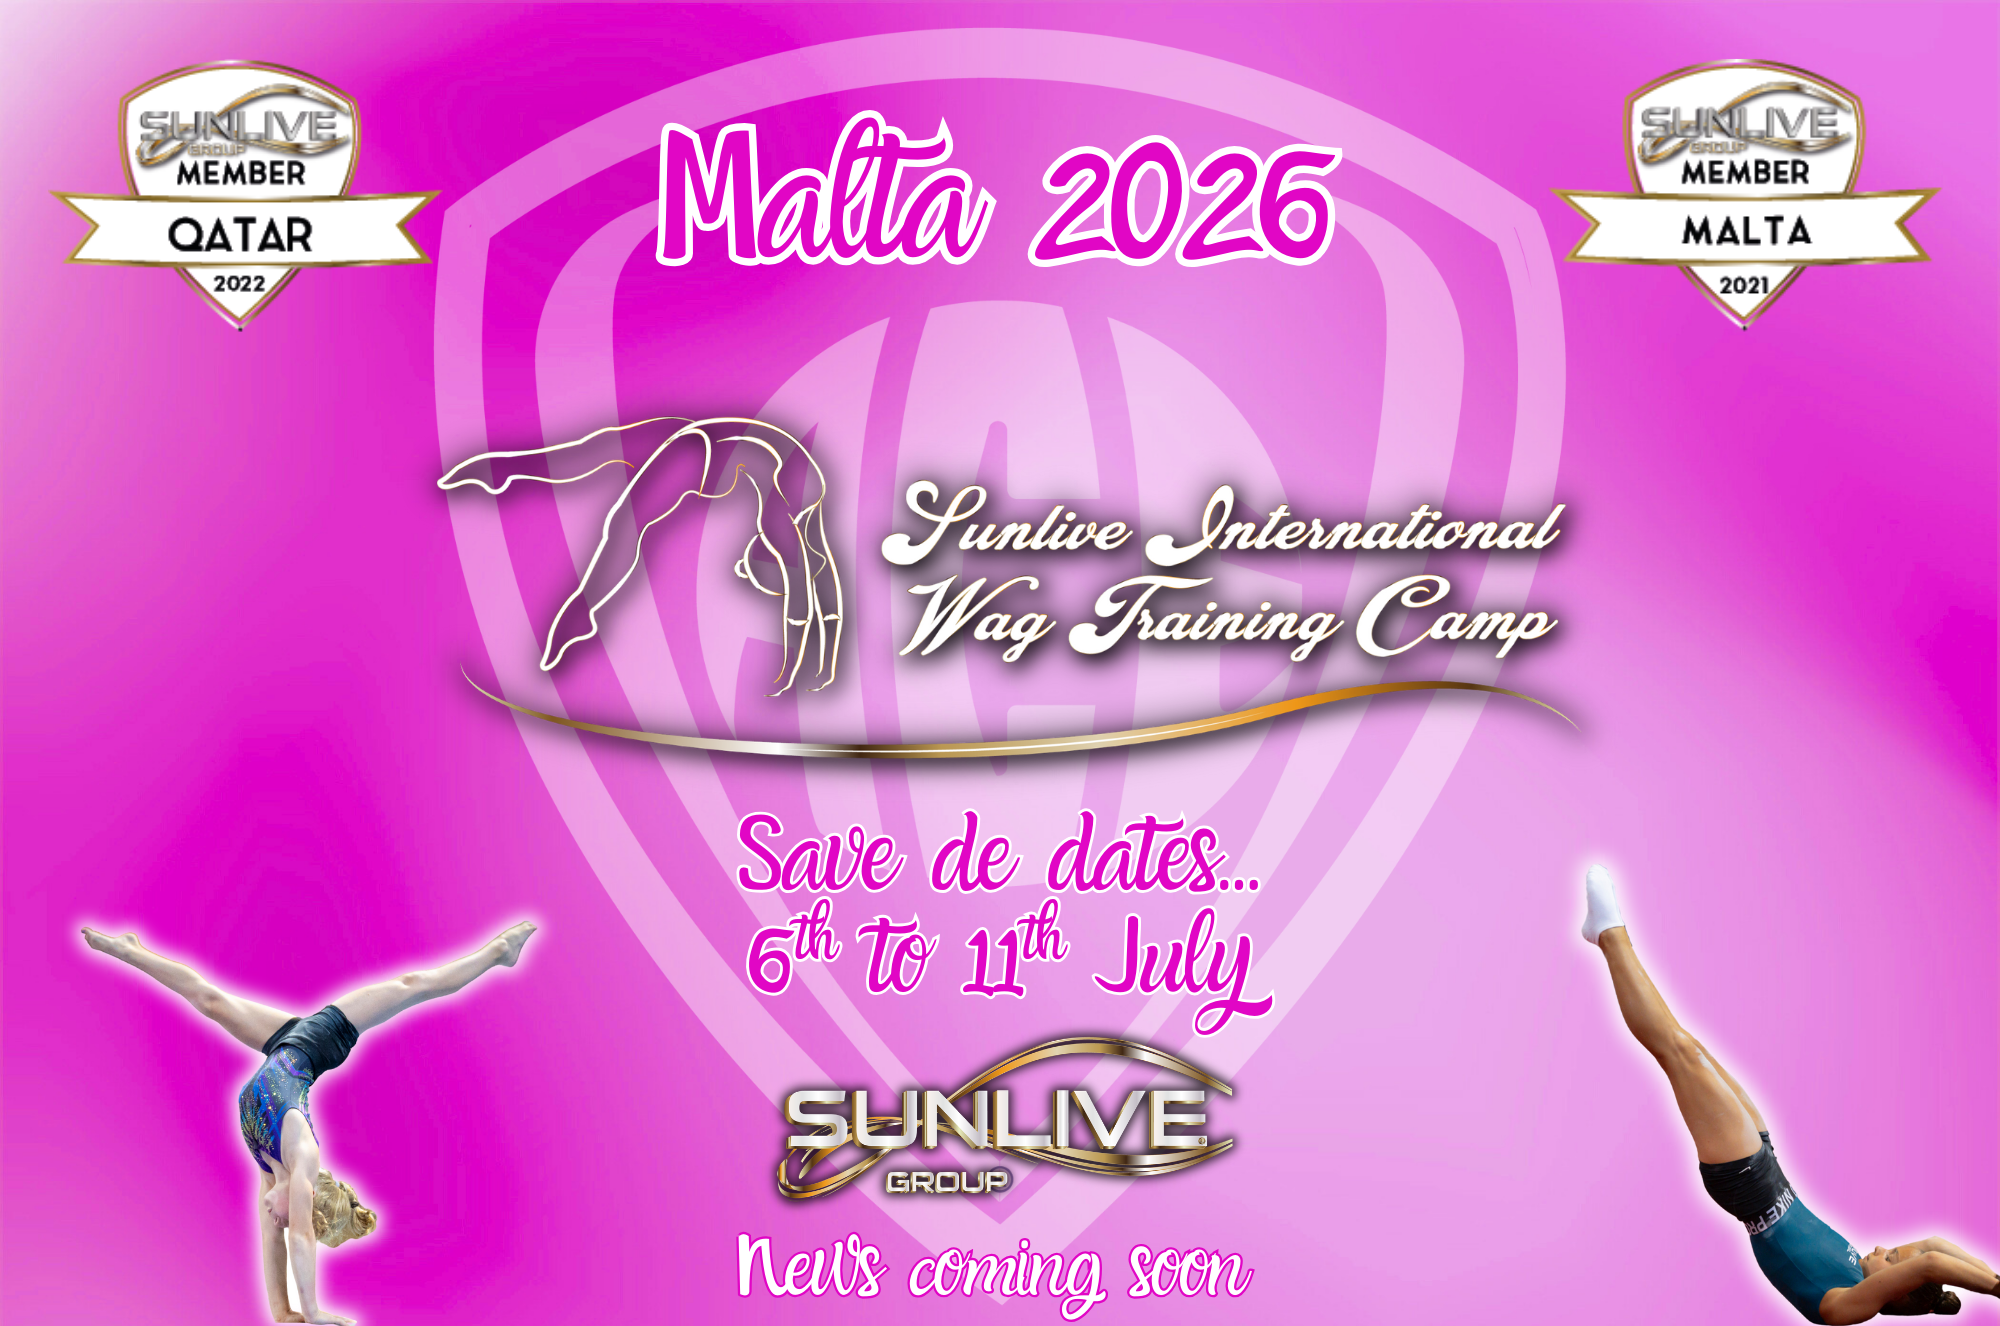
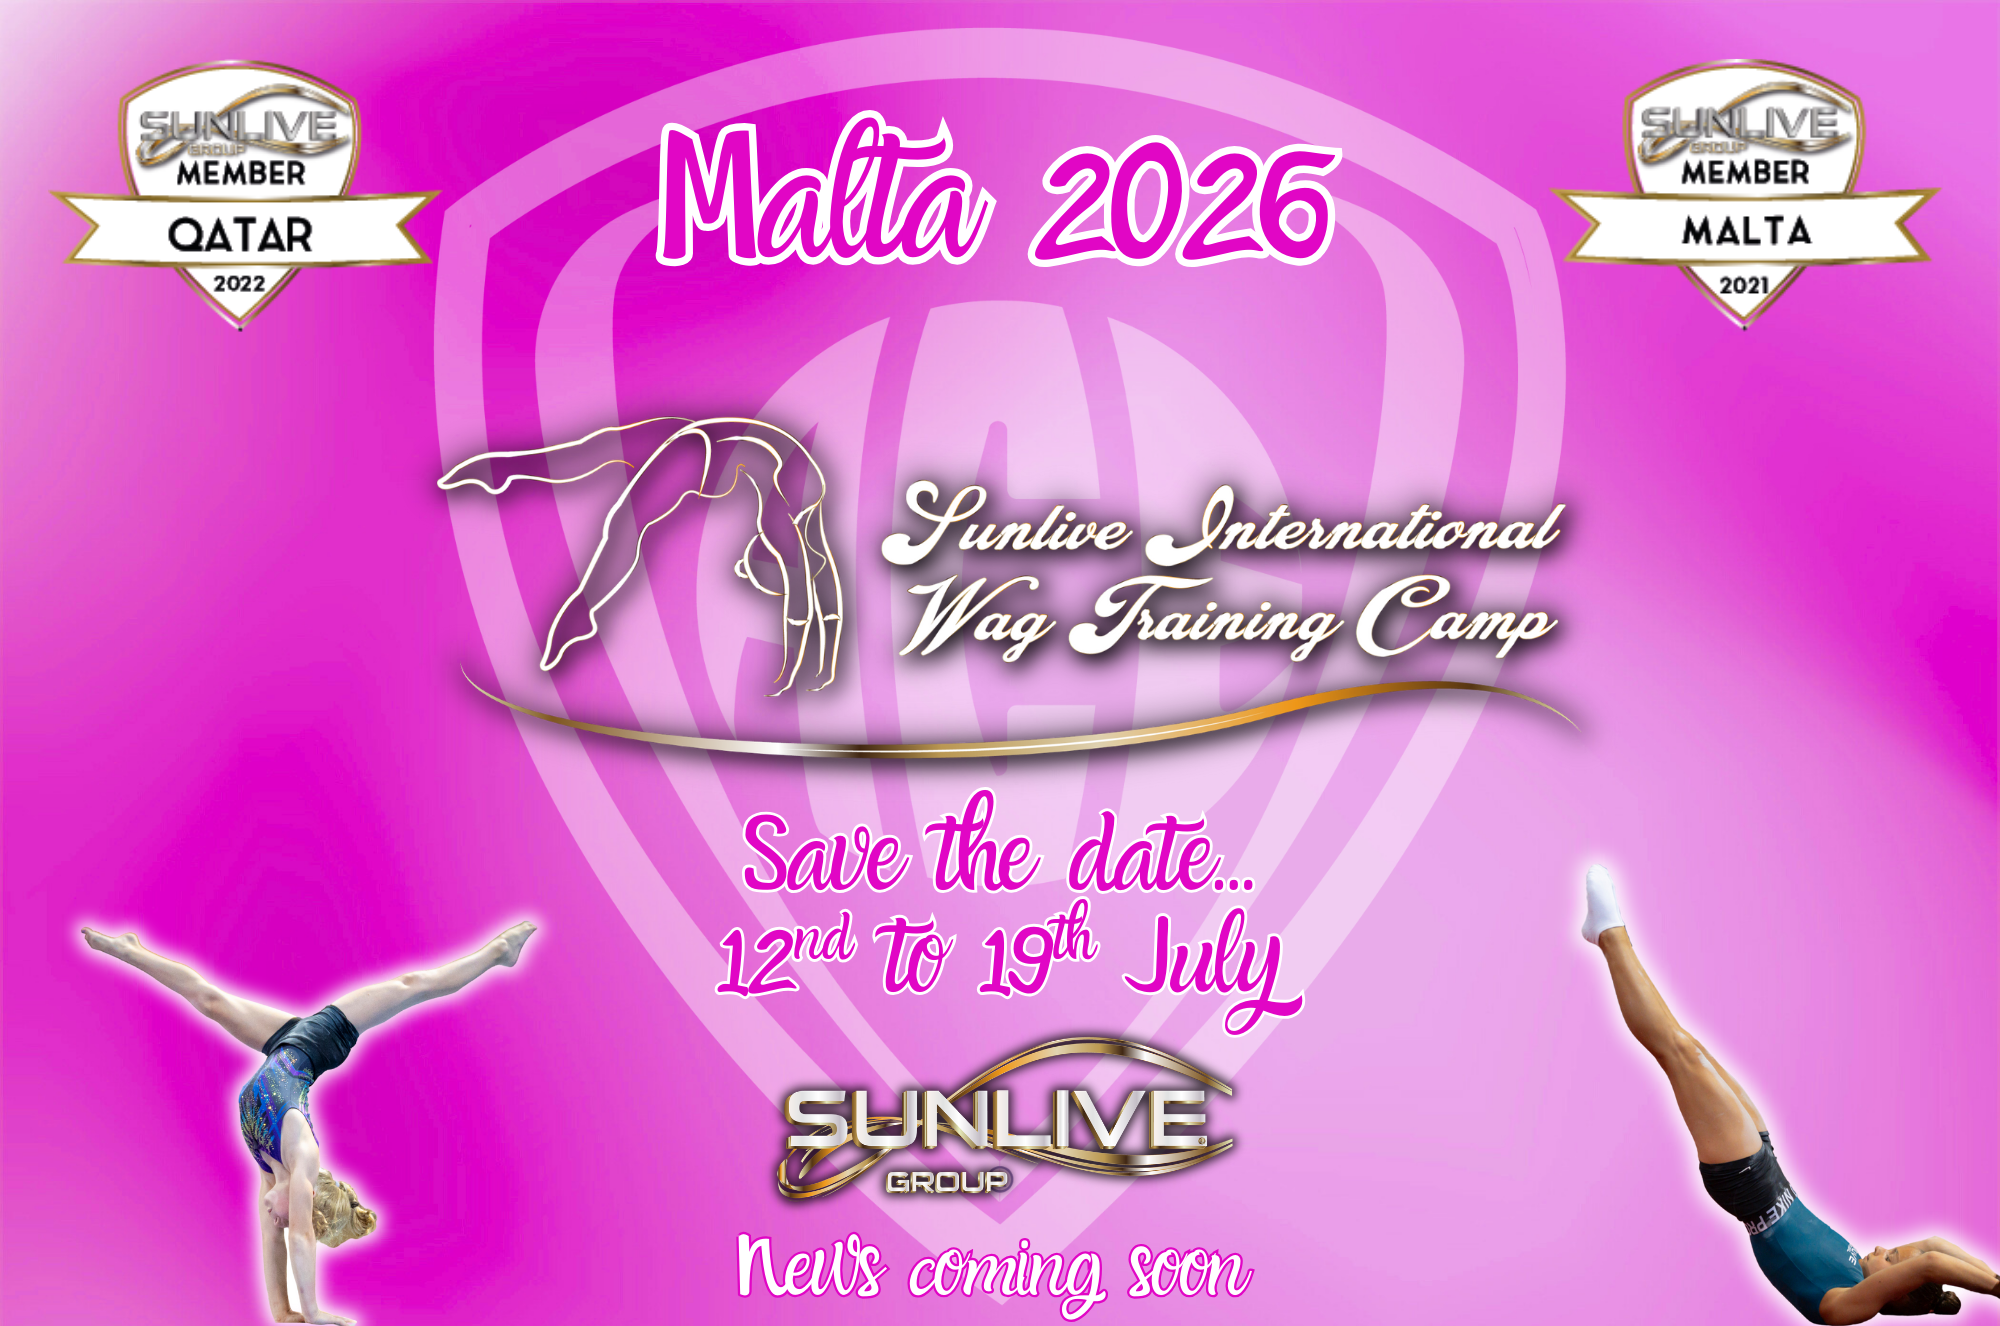
updates

Changed region(s): [[0.341, 0.5875, 0.651, 0.8039]]

diff --git a/src/config/content/malta.content.js b/src/config/content/malta.content.js
@@ -207,8 +207,8 @@ export const maltaContent = {
       id: "program-schedule",
       columns: [
         {
-          id: "monday-july-6",
-          title: "» MONDAY, JULY 6",
+          id: "sunday-july-12",
+          title: "» SUNDAY, JULY 12",
           items: [
             { time: "", description: "Hotel Check-in: Topaz Hotel" },
             { time: "", description: "Breakfast & Lunch" },
@@ -221,8 +221,6 @@ export const maltaContent = {
             { time: "18:15 - 19:30", description: "Free Time" },
             { time: "19:30", description: "Dinner" },
             { time: "20:30", description: "Coaching Education Session" },
-
-            // ✅ Placeholder (substituto) guardado p/ mais tarde
             {
               time: "",
               description: "To be defined later",
@@ -232,8 +230,8 @@ export const maltaContent = {
         },
 
         {
-          id: "tuesday-july-7",
-          title: "» TUESDAY, JULY 7",
+          id: "monday-july-13",
+          title: "» MONDAY, JULY 13",
           items: [
             { time: "7:15", description: "Breakfast" },
             { time: "8:00", description: "Transport to Gym" },
@@ -250,7 +248,6 @@ export const maltaContent = {
             },
             { time: "19:30", description: "Dinner" },
             { time: "20:30", description: "Coaching Education" },
-
             {
               time: "",
               description: "To be defined later",
@@ -260,8 +257,8 @@ export const maltaContent = {
         },
 
         {
-          id: "wednesday-july-8",
-          title: "» WEDNESDAY, JULY 8",
+          id: "tuesday-july-14",
+          title: "» TUESDAY, JULY 14",
           items: [
             { time: "7:15", description: "Breakfast" },
             { time: "8:00", description: "Transport to Gym" },
@@ -273,7 +270,6 @@ export const maltaContent = {
             { time: "19:00", description: "Transport to Hotel" },
             { time: "19:30", description: "Dinner" },
             { time: "20:30", description: "Coaching Education" },
-
             {
               time: "",
               description: "To be defined later",
@@ -283,8 +279,8 @@ export const maltaContent = {
         },
 
         {
-          id: "thursday-july-9",
-          title: "» THURSDAY, JULY 9",
+          id: "wednesday-july-15",
+          title: "» WEDNESDAY, JULY 15",
           items: [
             { time: "7:15", description: "Breakfast" },
             { time: "8:00", description: "Transport to Gym" },
@@ -296,7 +292,6 @@ export const maltaContent = {
             { time: "17:45", description: "Transport to Hotel" },
             { time: "19:00", description: "Dinner" },
             { time: "", description: "FREE EVENING FOR COACHES & GYMNASTS" },
-
             {
               time: "",
               description: "To be defined later",
@@ -306,8 +301,30 @@ export const maltaContent = {
         },
 
         {
-          id: "friday-july-10",
-          title: "» FRIDAY, JULY 10",
+          id: "thursday-july-16",
+          title: "» THURSDAY, JULY 16",
+          items: [
+            { time: "7:15", description: "Breakfast" },
+            { time: "8:00", description: "Transport to Gym" },
+            { time: "8:45 - 11:40", description: "Training" },
+            { time: "11:45", description: "Transport to Hotel" },
+            { time: "12:30", description: "Lunch" },
+            { time: "15:30", description: "Transport to Gym" },
+            { time: "16:15 - 19:00", description: "Training" },
+            { time: "19:00", description: "Transport to Hotel" },
+            { time: "19:30", description: "Dinner" },
+            { time: "20:30", description: "Coaching Education" },
+            {
+              time: "",
+              description: "To be defined later",
+              isPlaceholder: true,
+            },
+          ],
+        },
+
+        {
+          id: "friday-july-17",
+          title: "» FRIDAY, JULY 17",
           items: [
             { time: "7:15", description: "Breakfast" },
             { time: "8:00", description: "Transport to Gym" },
@@ -321,7 +338,6 @@ export const maltaContent = {
               description:
                 "FAREWELL FINAL DINNER & Presentation of Diplomas to Gymnasts/Coaches & Q/A session with expert coaches",
             },
-
             {
               time: "",
               description: "To be defined later",
@@ -331,8 +347,8 @@ export const maltaContent = {
         },
 
         {
-          id: "saturday-july-11",
-          title: "» SATURDAY, JULY 11",
+          id: "saturday-july-18",
+          title: "» SATURDAY, JULY 18",
           items: [
             {
               time: "7:15",
@@ -347,10 +363,20 @@ export const maltaContent = {
             { time: "11:45", description: "Transport to Hotel" },
             {
               time: "",
-              description:
-                "Saturday, July 19 (Afternoon) & Sunday, July 20 - DEPARTURES",
+              description: "To be defined later",
+              isPlaceholder: true,
             },
+          ],
+        },
 
+        {
+          id: "sunday-july-19",
+          title: "» SUNDAY, JULY 19",
+          items: [
+            {
+              time: "",
+              description: "DEPARTURES",
+            },
             {
               time: "",
               description: "To be defined later",

diff --git a/src/pages/home/components/HomeContactsSection.jsx b/src/pages/home/components/HomeContactsSection.jsx
@@ -3,24 +3,47 @@ import { homeContent } from "../../../config/content/home.content.js";
 import InfoCard from "../../../shared/components/InfoCard.jsx";
 import styles from "./HomeContactsSection.module.css";
 
-const iconsById = {
-  email: "✉",
-  phone: "📞",
-};
+const getIcon = (id) => (id.includes("email") ? "✉" : "📞");
+
+const sortEmailFirst = (a, b) =>
+  (a.id.includes("email") ? 0 : 1) - (b.id.includes("email") ? 0 : 1);
 
 export function HomeContactsSection() {
   const { title, cards } = homeContent.contactsSection;
+
+  const malta = cards.filter((c) => c.group === "malta").sort(sortEmailFirst);
+  const portugal = cards
+    .filter((c) => c.group === "portugal")
+    .sort(sortEmailFirst);
 
   return (
     <section id="contacts" className={styles.section}>
       <div className={styles.inner}>
         <h2 className={styles.title}>{title}</h2>
 
+        {/* 🇲🇹 MALTA */}
+        <h3 className={styles.groupTitle}>Malta Event</h3>
         <div className={styles.grid}>
-          {cards.map((card) => (
+          {malta.map((card) => (
             <InfoCard key={card.id} className={styles.cardContent}>
-              <span className={styles.icon}>{iconsById[card.id]}</span>
+              <span className={styles.icon}>{getIcon(card.id)}</span>
+              <h3 className={styles.cardTitle}>{card.title}</h3>
 
+              {card.link && (
+                <a href={card.link.href} className={styles.link}>
+                  {card.link.label}
+                </a>
+              )}
+            </InfoCard>
+          ))}
+        </div>
+
+        {/* 🇵🇹 PORTUGAL */}
+        <h3 className={styles.groupTitle}>Portugal Event</h3>
+        <div className={styles.grid}>
+          {portugal.map((card) => (
+            <InfoCard key={card.id} className={styles.cardContent}>
+              <span className={styles.icon}>{getIcon(card.id)}</span>
               <h3 className={styles.cardTitle}>{card.title}</h3>
 
               {card.link && (

diff --git a/src/config/content/home.content.js b/src/config/content/home.content.js
@@ -48,21 +48,35 @@ export const homeContent = {
   contactsSection: {
     title: "Contacts",
     cards: [
+      // 🇲🇹 MALTA (1ª linha)
       {
-        id: "email",
+        id: "email-malta",
         title: "Email",
+        group: "malta",
+        link: { href: "mailto:events@sunlive.pt", label: "events@sunlive.pt" },
+      },
+      {
+        id: "phone-malta",
+        title: "Phone",
+        group: "malta",
+        link: { href: "tel:+351936126161", label: "+(00351) 936 126 161" },
+      },
+
+      // 🇵🇹 PORTUGAL (2ª linha)
+      {
+        id: "email-portugal",
+        title: "Email",
+        group: "portugal",
         link: {
-          href: "mailto:events@sunlive.pt",
-          label: "events@sunlive.pt",
+          href: "mailto:sunlivegymnastics@gmail.com",
+          label: "sunlivegymnastics@gmail.com",
         },
       },
       {
-        id: "phone",
+        id: "phone-portugal",
         title: "Phone",
-        link: {
-          href: "tel:+351936126161",
-          label: "+(00351) 936 126 161",
-        },
+        group: "portugal",
+        link: { href: "tel:+351934094584", label: "+351 934 094 584" },
       },
     ],
   },

diff --git a/src/pages/home/components/HomeContactsSection.module.css b/src/pages/home/components/HomeContactsSection.module.css
@@ -55,7 +55,8 @@
 
 /* conteúdo interno do InfoCard */
 .cardContent {
-    flex: 1 1 30rem;
+    flex: 1 1 34rem;
+    /* força a ficar 2 por linha em ecrãs largos */
     max-width: 34rem;
     gap: 1.25rem;
 }
@@ -190,4 +191,22 @@
     .title {
         font-size: 1.7rem;
     }
+}
+
+.groupTitle {
+    margin: 0.5rem 0 1.25rem;
+    text-align: center;
+    font-weight: 900;
+    letter-spacing: 0.12em;
+    text-transform: uppercase;
+    color: #fff;
+
+    text-shadow:
+        0 0 4px rgba(15, 23, 42, 1),
+        0 0 14px rgba(148, 163, 184, 1);
+}
+
+/* espaçamento entre os 2 grupos */
+.grid+.groupTitle {
+    margin-top: 2.5rem;
 }

diff --git a/src/config/content/anadia.content.js b/src/config/content/anadia.content.js
@@ -475,11 +475,7 @@ export const anadiaContent = {
       {
         id: "contacts",
         title: "CONTACTS",
-        lines: [
-          "@: events@sunlive.pt",
-          "M: +(00351) 936 126 161",
-          "T: +(00351) 234 745 133",
-        ],
+        lines: ["sunlivegymnastics@gmail.com", "+351 934 094 584"],
       },
       {
         id: "links",

diff --git a/README.md b/README.md
@@ -12,10 +12,10 @@ Aplicação frontend desenvolvida em **React + Vite**, já **em produção**, pa
 
 ## 🎯 Objetivo do projeto
 
-- Página institucional do WAG Training Camp  
-- Divulgação dos camps (Malta / Portugal – Anadia)  
-- Apresentação de programa, equipa técnica, venue e parceiros  
-- Inscrições através de **Google Forms integrados em modal (iframe)**  
+- Página institucional do WAG Training Camp
+- Divulgação dos camps (Malta / Portugal – Anadia)
+- Apresentação de programa, equipa técnica, venue e parceiros
+- Inscrições através de **Google Forms integrados em modal (iframe)**
 
 👉 Projeto **100% frontend**, sem backend próprio.
 
@@ -23,24 +23,24 @@ Aplicação frontend desenvolvida em **React + Vite**, já **em produção**, pa
 
 ## ⚙ Stack técnica
 
-- React 19  
-- Vite  
-- React Router  
-- CSS Modules  
-- Google Forms (embed via iframe)  
-- Apache (.htaccess)  
-- Deploy tradicional via FTP  
+- React 19
+- Vite
+- React Router
+- CSS Modules
+- Google Forms (embed via iframe)
+- Apache (.htaccess)
+- Deploy tradicional via FTP
 
 ---
 
 ## 🚀 Estado atual
 
-- ✅ Produção ativa  
-- ✅ HTTPS ativo  
-- ✅ Routing funcional (`/`, `/malta`, `/anadia`)  
-- ✅ Modais de inscrição funcionais  
-- ✅ Responsive (mobile-first)  
-- ❌ Sem backend / API própria  
+- ✅ Produção ativa
+- ✅ HTTPS ativo
+- ✅ Routing funcional (`/`, `/malta`, `/anadia`)
+- ✅ Modais de inscrição funcionais
+- ✅ Responsive (mobile-first)
+- ❌ Sem backend / API própria
 
 ---
 
@@ -95,12 +95,14 @@ src/
 ## 📦 Build & Deploy
 
 ### Build local
+
 ```bash
 npm install
 npm run build
 ```
 
 ### Deploy
+
 - Upload da pasta `dist/` via FTP
 - Servidor Apache
 - `index.html` na raiz do domínio
@@ -133,6 +135,7 @@ Frontend Developer (React)
 ## 📌 Nota para recrutadores
 
 Este projeto demonstra:
+
 - Estruturação de SPA em produção
 - Deploy real em alojamento tradicional
 - Gestão de routing, modais e estados
